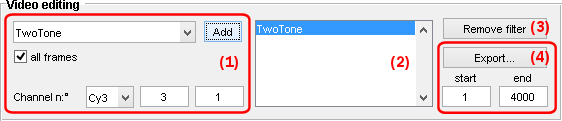
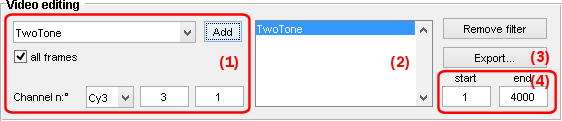
Update "Video processing" / "Edit video" panel section

Changed region(s): [[0.7562, 0.3223, 0.9982, 0.7438], [0.9377, 0.1736, 0.9982, 0.2975]]

diff --git a/docs/video-processing/panels/panel-edit-video.md b/docs/video-processing/panels/panel-edit-video.md
@@ -9,16 +9,66 @@ nav_order: 4
 # Edit video
 {: .no_toc }
 
+<a href="../../assets/images/gui/VP-panel-videdit.png"><img src="../../assets/images/gui/VP-panel-videdit.png" style="max-width: 562px;"/></a>
+
 ## Panel components
 {: .no_toc .text-delta }
 
 1. TOC
 {:toc}
 
-### Filter settings
+---
 
-### Filter list
+## Filter settings
 
-### Frame range
+Use these settings to configure an image filter to apply to the loaded video or image.
 
-Sometimes the frame range of a video needs to be readjusted, because of partial failure in recording or to export light animated GIF files for illustration.
+<a href="../../assets/images/gui/VP-panel-videdit-filterprm.png"><img src="../../assets/images/gui/VP-panel-videdit-filterprm.png" style="max-width: 231px;"/></a>
+
+Image filters treat each video channels separately. 
+To configure a filter, select the first channel in list **(c)** and the image filter in list **(a)**. 
+Each filter uses zero to two user-defined parameters that can be set in **(c)** and **(d)** and that are detailed in the table below.
+
+| filter                                                                         | description                                                                                                                                                                                                                                                                                                                                                                                                                                                                                                                                                        | default *p*<sub>1</sub> | default *p*<sub>2</sub> |
+| ------------------------------------------------------------------------------ | ------------------------------------------------------------------------------------------------------------------------------------------------------------------------------------------------------------------------------------------------------------------------------------------------------------------------------------------------------------------------------------------------------------------------------------------------------------------------------------------------------------------------------------------------------------------ | --------------- | --------------- |
+| `Gaussian filter`                                                              | Pixels are convolved with a Gaussian function with ***p*<sub>1</sub>** the size of the kernel and ***p*<sub>2</sub>** the Gaussian standard deviation.                                                                                                                                                                                                                                                                                                                                                                                                             |  |  |
+| `mean filter`                                                                  | Pixels are convolved with a rectangle function with ***p*<sub>1</sub>** the size of the kernel.                                                                                                                                                                                                                                                                                                                                                                                                                                                                    |  |  |
+| `median filter`                                                                | Pixels are replaced by the median value of the ***p*<sub>1</sub>** neighbouring pixels.                                                                                                                                                                                                                                                                                                                                                                                                                                                                            |  |  |
+| `Crocker-Grier filter`<sup>[ref](https://doi.org/10.1006/jcis.1996.0217)</sup> | Mean-filtered pixels are subtracted to Gaussian filtered-pixels, using ***p*<sub>1</sub>** as the kernel size and ***p*<sub>2</sub>** as the Gaussian standard deviation                                                                                                                                                                                                                                                                                                                                                                                           |  |  |
+| `local Wiener filter`                                                          | The estimated noise intensity per pixel ***p*<sub>2</sub>** is subtracted to the ***p*<sub>1</sub>**-by-***p*<sub>1</sub>** neighbouring pixel area. If ***p*<sub>2</sub>**=0, the noise intensity is calculated as 10% of the maximum intensity in the ***p*<sub>1</sub>**-by-***p*<sub>1</sub>** neighbouring pixel area                                                                                                                                                                                                                                         |  |  |
+| `global Wiener filter`                                                         | The estimated noise intensity per pixel ***p*<sub>2</sub>** is subtracted to all pixels in the image. If ***p*<sub>2</sub>**=0, the noise intensity is calculated as 10% of the maximum intensity in the image                                                                                                                                                                                                                                                                                                                                                     |  |  |
+| `outlier filter`                                                               | Identifies bright spots from the mean and standard deviation of the intensity distribution in the ***p*<sub>1</sub>**-by-***p*<sub>1</sub>** neighbouring pixels. Pixels that does not belong to the ***p*<sub>1</sub>**-by-***p*<sub>1</sub>** area are set to 0.                                                                                                                                                                                                                                                                                                 |  |  |
+| `histothresh filter`                                                           | Pixels that have an intensity lower than ***p*<sub>1</sub>**% of the pixels in the image are set to 0                                                                                                                                                                                                                                                                                                                                                                                                                                                              |  |  |
+| `simplethresh filter`                                                          | Pixels that have an intensity lower than ***p*<sub>1</sub>** are set to 0                                                                                                                                                                                                                                                                                                                                                                                                                                                                                          |  |  |
+| `mean value`                                                                   | The estimated background intensity *I*<sub>BG</sub> is subtracted to all pixels with *I*<sub>BG</sub>=*I*<sub>high</sub>+***p*<sub>1</sub>**x*HWHM*<sub>high</sub>.<br>*I*<sub>high</sub> and *HWHM*<sub>high</sub> are the mean and the half-width at half-maximum of the distribution of high intensities.<br>High intensities are intensities higher than *I*<sub>mean</sub>+***p*<sub>1</sub>**x*&#963;*<sub>I</sub>, with *I*<sub>mean</sub> and *&#963;*<sub>I</sub> being the mean value and standard deviation of the intensity distribution in the image. |  |  |
+| `most frequent`                                                                | The estimated background intensity *I*<sub>BG</sub> is subtracted to all pixels with *I*<sub>BG</sub>=*I*<sub>most</sub>+***p*<sub>1</sub>**x*HWHM*<sub>most</sub>.<br>*I*<sub>most</sub> is the most frequent value in the image considering a binning interval (*I*<sub>max</sub>-*I*<sub>min</sub>)/***p*<sub>2</sub>**, and HWHM*<sub>most</sub> is the half-width at half maximum of the intensity distribution in the image.                                                                                                                                 |  |  |
+| `histothresh`                                                                  |  |  |  |
+| `Ha average`                                                                   |  |  |  |
+| `Ha framewise`                                                                 |  |  |  |
+| `Twotone`                                                                      |  |  |  |
+| `subtract image`                                                               |  |  |  |
+| `multiplication`                                                               |  |  |  |
+| `addition`                                                                     |  |  |  |
+
+Image filters can be configured for only the current frame or for all video frames, by respectively uncheking or checking the box in **(e)**. 
+
+After configuration, the filter can be applied to the loaded video or image by pressing **Add**. 
+All filters used on the video or image are listed in the 
+[Filter list](#filter list) and can be removed by pressing **Remove filter**
+
+---
+
+## Filter list
+
+
+---
+
+## Export video to file
+
+---
+
+## Frame range
+
+<a href="../../assets/images/gui/VP-panel-videdit-framerange.png"><img src="../../assets/images/gui/VP-panel-videdit-framerange.png" style="max-width: 106px;"/></a>
+
+Sometimes the frame range of a video needs to be re-adjusted, because of partial failure in recording or to export light animated GIF files for illustration.
